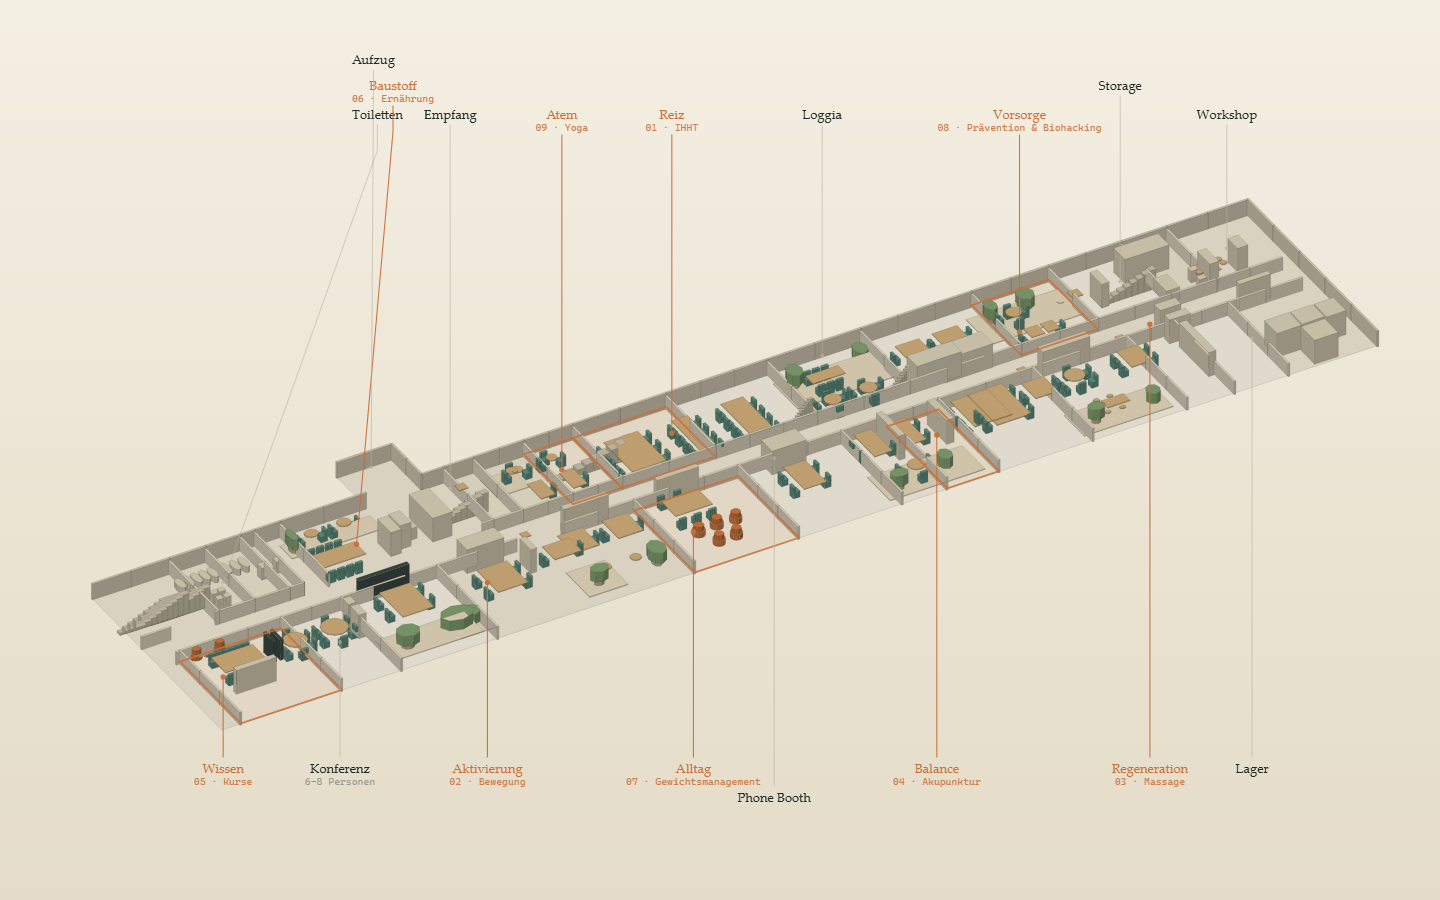
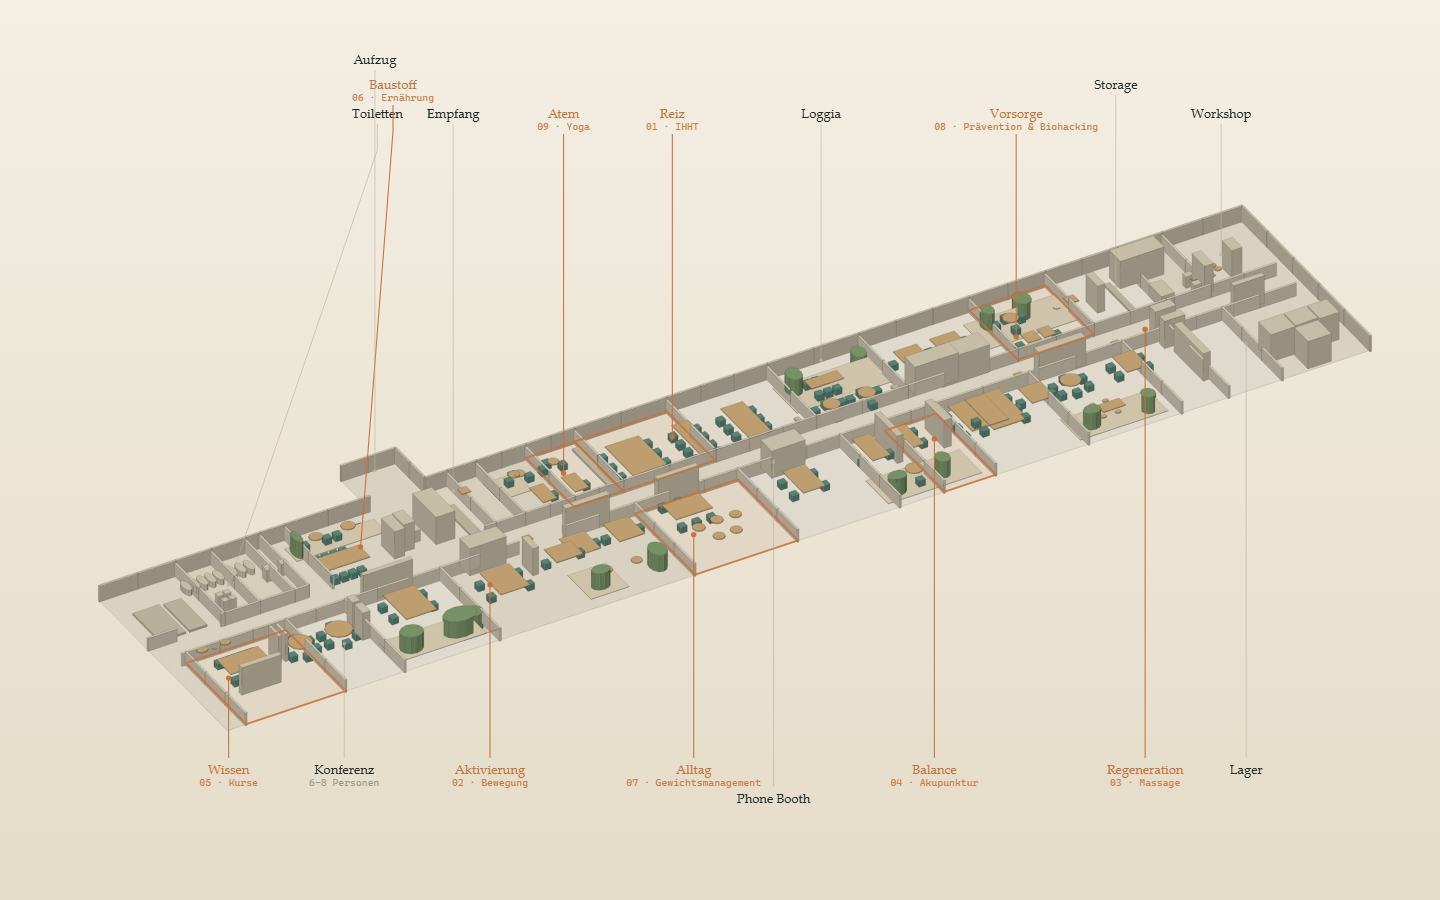
chore(autosave): drift-anchor 2026-07-26T04:46:13Z — 8 tracked + 1 new file(s)

diff --git a/src/axo/axo-kontrakt.js b/src/axo/axo-kontrakt.js
@@ -116,23 +116,31 @@ export const DARSTELLUNGSHOEHE = {
   boden: 0.1, // Bodenplatte, traegt den Farbton des Raums
   wandAussen: 1.16, // Schnitthoehe Aussenhuelle
   wandInnen: 0.94, // Schnitthoehe Trenn- und Flurwaende
-  kern: 2.45, // Aufzug/Treppenhaus ragen bewusst durch den Schnitt
-  tisch: 0.72,
-  platte: 0.05,
-  sitz: 0.44,
-  lehne: 0.8,
-  polster: 0.38,
-  polsterLehne: 0.7,
-  schrank: 1.72,
-  stellwand: 1.45, // schmale Schraenke (<= 30 cm tief) sind Stellwaende
-  kabine: 2.05,
-  topf: 0.42,
-  krone: 0.72,
-  becken: 0.85,
-  wc: 0.42,
-  kochfeld: 0.9,
-  loggia: 0.04 // flache Auflage auf dem Boden
+  kern: 3.0 // Aufzugsschacht, durchgehend bis Oberkante Wand
 }
+
+/* ── Ausstattungs-Hoehen kommen NICHT von hier ────────────────────────
+   Sie stehen in `src/three/ausstattung.ts` (OBERKANTE_CM / KOERPER_CM) und
+   werden von dort uebernommen — die 3D-Ansicht benutzt dieselbe Tabelle.
+   Diese Datei setzt keine zweite daneben.
+
+   Das ist mehr als Ordnungsliebe. Die Tabelle traegt eine ausformulierte
+   Doktrin, die beim ersten Entwurf dieser Axonometrie verletzt wurde:
+
+     · Der Stuhl ist NUR die Sitzflaeche (45 cm, DIN EN 1335). Eine Rueckenlehne
+       waere "eine Formaussage, die der Plan nicht traegt" — der erste Entwurf
+       hatte 144 Lehnen erfunden.
+     · Die Treppe ist NUR der Antritt (15 cm). Weder Geschosshoehe noch
+       Stufenzahl stehen in einem Grundriss; der erste Entwurf liess sie in
+       neun Stufen ansteigen und behauptete damit eine Steigung, die niemand
+       gemessen hat.
+     · Der Tisch ist die PLATTE auf Arbeitshoehe (6 cm auf 74 cm), kein
+       Vollkoerper — sonst stellt ein 290x350-Konferenztisch den halben Raum zu.
+
+   Frei bleibt allein die FARBE: sie ist eine Optik-Entscheidung dieser
+   Ansicht, kein Messwert. Die 3D-Ansicht faerbt blaustichig, damit ihre
+   eigenen Pruefungen Moebel von Waenden trennen koennen; die Axonometrie
+   braucht dafuer das warme Klima der Vorlage. */
 
 /* ══════════════════════════════════════════════════════════════════
    3 · PROJEKTION UND LICHT              [uebersicht.html:506,547-558]
@@ -237,44 +245,52 @@ export const BESCHRIFTUNG = {
    kennt nur EIN Grundkoerper-Primitiv (das extrudierte Vieleck), ein Kasten
    ist dessen Sonderfall mit vier Ecken. */
 
-/** @typedef {{material:string, y0:number, y1:number, rund?:boolean, teil?:string}} Bauform */
+/** @typedef {{material:string, y0:number, y1:number, rund?:boolean}} Bauform */
 
-/** Zuordnung Typ -> Bauform. Sonderfaelle loest `bauformFuer` ueber `text`. */
+/**
+ * Farbe und Umriss je Ausstattungs-Typ — die HOEHE steht bewusst nicht hier.
+ * `rund: true` heisst: als Vieleck statt als Kasten zeichnen (der Renderer
+ * kennt nur ein Primitiv, das ausgezogene Vieleck; ein Kasten ist dessen
+ * Sonderfall mit vier Ecken).
+ */
 export const AUSSTATTUNG_STIL = {
-  treppe: { material: 'stufe', y0: 0, y1: 1.4, teil: 'stufen' },
-  wc: { material: 'schrank', y0: 0, y1: DARSTELLUNGSHOEHE.wc, rund: true },
-  waschbecken: { material: 'schrank', y0: 0, y1: DARSTELLUNGSHOEHE.becken },
-  tisch: { material: 'holz', y0: DARSTELLUNGSHOEHE.tisch, y1: DARSTELLUNGSHOEHE.tisch + DARSTELLUNGSHOEHE.platte, teil: 'tisch' },
-  rundtisch: { material: 'holz', y0: DARSTELLUNGSHOEHE.tisch, y1: DARSTELLUNGSHOEHE.tisch + DARSTELLUNGSHOEHE.platte, rund: true, teil: 'tisch' },
-  stuhl: { material: 'sitz', y0: 0, y1: DARSTELLUNGSHOEHE.sitz, teil: 'stuhl' },
-  schrank: { material: 'schrank', y0: 0, y1: DARSTELLUNGSHOEHE.schrank },
-  pflanze: { material: 'gruen', y0: 0, y1: DARSTELLUNGSHOEHE.topf + DARSTELLUNGSHOEHE.krone, rund: true, teil: 'pflanze' },
-  kochfeld: { material: 'schrank', y0: 0, y1: DARSTELLUNGSHOEHE.kochfeld },
-  flaeche: { material: 'loggia', y0: 0, y1: DARSTELLUNGSHOEHE.loggia }
+  treppe: { material: 'stufe' },
+  wc: { material: 'schrank', rund: true },
+  waschbecken: { material: 'schrank' },
+  tisch: { material: 'holz' },
+  rundtisch: { material: 'holz', rund: true },
+  stuhl: { material: 'sitz' },
+  schrank: { material: 'schrank' },
+  pflanze: { material: 'gruen', rund: true },
+  kochfeld: { material: 'schrank' },
+  aufzug: { material: 'kern' },
+  flaeche: { material: 'loggia' }
 }
 
 /**
- * Bauform eines Elements — mit den Sonderfaellen, die erst der Blick in die
- * `text`-Felder zeigt: unter `rundtisch` stecken auch 'Lounge-Sessel' und
- * 'Sessel' (Sitzmoebel, kein Tisch), unter `schrank` auch 'Stellwand' und
- * 'Regal'. Eine Stellwand ist 20 cm tief und 1,45 m hoch, eine Schrankzeile
- * 35 cm tief und 1,72 m — als gleicher Kasten gezeichnet saehe der Raum
- * zugestellt aus, wo in Wirklichkeit nur eine Trennscheibe steht.
+ * Bauform eines Elements: Umriss und Farbe von hier, Hoehe aus der Tabelle des
+ * Projekts (`src/three/ausstattung.ts`), die der Aufrufer hereinreicht.
+ *
+ * Ein Typ ohne Hoehen-Eintrag wird NICHT gezeichnet — genauso haelt es die
+ * 3D-Ansicht ("lieber nichts zeichnen als einen erfundenen Koerper").
+ *
  * @param {{typ:string,text?:string|null,tiefe:number,breite:number}} el
- * @returns {Bauform}
+ * @param {{oberkante:Record<string,number>, koerper:Record<string,number>}} hoehen in cm
+ * @returns {Bauform|null}
  */
-export function bauformFuer(el) {
+export function bauformFuer(el, hoehen) {
   const stil = AUSSTATTUNG_STIL[el.typ]
-  if (!stil) return { material: 'schrank', y0: 0, y1: 0.8 }
-  const text = (el.text || '').toLowerCase()
-
-  if (el.typ === 'rundtisch' && /sessel|lounge/.test(text)) {
-    return { material: 'polster', y0: 0, y1: DARSTELLUNGSHOEHE.polsterLehne, rund: true, teil: 'sessel' }
+  const oben = hoehen?.oberkante?.[el.typ]
+  if (!stil || oben === undefined) return null
+  // Ohne eigenen Koerper-Eintrag steht das Stueck auf dem Boden; mit Eintrag
+  // schwebt nur die gemessene Platte auf ihrer Arbeitshoehe.
+  const dicke = hoehen.koerper?.[el.typ] ?? oben
+  return {
+    material: stil.material,
+    rund: !!stil.rund,
+    y0: (oben - dicke) * CM,
+    y1: oben * CM
   }
-  if (el.typ === 'schrank' && Math.min(el.breite, el.tiefe) <= 30) {
-    return { material: 'schirm', y0: 0, y1: DARSTELLUNGSHOEHE.stellwand }
-  }
-  return stil
 }
 
 /* ══════════════════════════════════════════════════════════════════

diff --git a/src/axo/axo-szene.js b/src/axo/axo-szene.js
@@ -87,81 +87,45 @@ function wandStuecke(a, b, dicke, y1, material, normale) {
   return stuecke
 }
 
-/** Koerper eines Ausstattungs-Elements. Masse kommen in cm herein. */
-function ausstattungsKoerper(el) {
-  const form = bauformFuer(el)
+/**
+ * Koerper eines Ausstattungs-Elements — EIN Koerper je gemessenem Element.
+ *
+ * Der erste Entwurf setzte Stuehle aus Sitz und Lehne zusammen, liess Treppen
+ * in neun Stufen ansteigen und machte aus manchen Rundtischen Sessel. Alles
+ * davon ist wieder verschwunden: der Plan misst Umriss und Standort, nicht
+ * Form. Was ein Element hoch ist, sagt die Tabelle des Projekts; wie es
+ * aussieht, sagt sein Umriss. Mehr steht nicht fest, also wird mehr nicht
+ * gezeigt.
+ *
+ * @param {object} el Element aus `floorplan.ausstattung`, Masse in cm
+ * @param {{oberkante:object, koerper:object}} hoehen
+ */
+function ausstattungsKoerper(el, hoehen) {
+  const form = bauformFuer(el, hoehen)
+  if (!form) return [] // unbekannter Typ: lieber nichts als etwas Erfundenes
   const cx = el.x * CM
   const cz = el.y * CM
   const b = el.breite * CM
   const t = el.tiefe * CM
   const dr = el.drehung || 0
-  const grund = () => (form.rund ? rund(cx, cz, b, t) : rechteck(cx, cz, b, t, dr))
-  const raus = []
-
-  if (form.teil === 'stuhl') {
-    // Sitzflaeche und Lehne. Die Beine der Vorlage (uebersicht.html:246) sind
-    // hier weggelassen: bei 144 Stuehlen waeren das 576 zusaetzliche Koerper,
-    // deren 7 cm im fertigen Bild niemand sieht.
-    raus.push({ punkte: rechteck(cx, cz, b, t, dr), y0: 0, y1: DARSTELLUNGSHOEHE.sitz, material: 'sitz' })
-    // Lehne an der Rueckkante: lokal um `versatz` in +z verschoben, mitgedreht.
-    const rueck = t * 0.35
-    const c = Math.cos(dr)
-    const s = Math.sin(dr)
-    const versatz = (t - rueck) / 2
-    raus.push({
-      punkte: rechteck(cx - versatz * s, cz + versatz * c, b, rueck, dr),
-      y0: DARSTELLUNGSHOEHE.sitz,
-      y1: DARSTELLUNGSHOEHE.lehne,
-      material: 'sitz'
-    })
-    return raus
-  }
-
-  if (form.teil === 'sessel') {
-    raus.push({ punkte: rund(cx, cz, b, t), y0: 0, y1: DARSTELLUNGSHOEHE.polster, material: 'polster' })
-    raus.push({ punkte: rund(cx, cz, b * 0.78, t * 0.78), y0: DARSTELLUNGSHOEHE.polster, y1: DARSTELLUNGSHOEHE.polsterLehne, material: 'polster' })
-    return raus
-  }
-
-  if (form.teil === 'pflanze') {
-    raus.push({ punkte: rund(cx, cz, b * 0.55, t * 0.55, 8), y0: 0, y1: DARSTELLUNGSHOEHE.topf, material: 'topf' })
-    raus.push({ punkte: rund(cx, cz, b, t, 8), y0: DARSTELLUNGSHOEHE.topf, y1: DARSTELLUNGSHOEHE.topf + DARSTELLUNGSHOEHE.krone, material: 'gruen' })
-    return raus
-  }
-
-  if (form.teil === 'stufen') {
-    // Treppenlauf: gestaffelte Tritte entlang der laengeren Achse, damit man
-    // die Steigung sieht statt eines Klotzes (uebersicht.html:301).
-    const n = 9
-    const laengs = b >= t
-    for (let i = 0; i < n; i++) {
-      const anteil = (i + 0.5) / n
-      const px = laengs ? cx - b / 2 + b * anteil : cx
-      const pz = laengs ? cz : cz - t / 2 + t * anteil
-      raus.push({
-        punkte: rechteck(px, pz, laengs ? b / n : b, laengs ? t : t / n, dr),
-        y0: 0,
-        y1: (form.y1 * (i + 1)) / n,
-        material: 'stufe'
-      })
+  return [
+    {
+      punkte: form.rund ? rund(cx, cz, b, t) : rechteck(cx, cz, b, t, dr),
+      y0: form.y0,
+      y1: form.y1,
+      material: form.material
     }
-    return raus
-  }
-
-  if (form.teil === 'tisch') {
-    raus.push({ punkte: grund(), y0: form.y0, y1: form.y1, material: form.material })
-    return raus
-  }
-
-  raus.push({ punkte: grund(), y0: form.y0, y1: form.y1, material: form.material })
-  return raus
+  ]
 }
 
 /**
  * Baut die vollstaendige Szene.
  *
  * @param {{floorplan:{corners:object,walls:object[],ausstattung?:object[]},labels?:object[]}} plan
- * @param {{wandDicke?:number, nurKernSaeulen?:boolean}} [opt] Wanddicke in cm
+ * @param {{wandDicke?:number, nurKernSaeulen?:boolean, hoehen?:object}} [opt]
+ *        `wandDicke` in cm; `hoehen` sind OBERKANTE_CM/KOERPER_CM aus
+ *        `src/three/ausstattung.ts` — ohne sie wird keine Ausstattung
+ *        gezeichnet, denn dann ist keine Hoehe belegt.
  */
 export function baueSzene(plan, opt = {}) {
   const fp = plan.floorplan || plan
@@ -285,8 +249,9 @@ export function baueSzene(plan, opt = {}) {
     )
   }
 
+  const hoehen = opt.hoehen || { oberkante: {}, koerper: {} }
   const moebel = []
-  for (const el of fp.ausstattung || []) moebel.push(...ausstattungsKoerper(el))
+  for (const el of fp.ausstattung || []) moebel.push(...ausstattungsKoerper(el, hoehen))
 
   /* ── Ausdehnung fuer den Massstab ──────────────────────────────── */
   let x0 = Infinity

diff --git a/app/components/blueprint3d/AxonometrieAnsicht.tsx b/app/components/blueprint3d/AxonometrieAnsicht.tsx
@@ -27,6 +27,7 @@ import { Configuration, configWallThickness } from '@blueprint3d/core/configurat
 import { baueSzene } from '@blueprint3d/axo/axo-szene.js'
 import { erzeugeAxonometrie } from '@blueprint3d/axo/axo-zeichnen.js'
 import { BLICKE, SAEULEN } from '@blueprint3d/axo/axo-kontrakt.js'
+import { OBERKANTE_CM, KOERPER_CM } from '@blueprint3d/three/ausstattung'
 
 type NamenModus = 'alle' | 'saeulen' | 'aus'
 
@@ -58,7 +59,9 @@ export function AxonometrieAnsicht({ blueprint3d, labels, aktiv }: Props) {
     const dicke = Configuration.getNumericValue(configWallThickness)
     const szene = baueSzene(
       { floorplan: gespeichert, labels },
-      { wandDicke: dicke, nurKernSaeulen: !vollausbau }
+      // Hoehen aus der Tabelle des Projekts — dieselbe, aus der die
+      // 3D-Ansicht ihre Koerper baut.
+      { wandDicke: dicke, nurKernSaeulen: !vollausbau, hoehen: { oberkante: OBERKANTE_CM, koerper: KOERPER_CM } }
     )
 
     const belegt: Record<number, string> = {}

diff --git a/src/three/ausstattung.ts b/src/three/ausstattung.ts
@@ -35,7 +35,7 @@ import type { AusstattungElement, AusstattungTyp } from '../model/floorplan'
  * (siehe Klassen-Kopf). Grundlage sind übliche Möbel- und Sanitärmaße; die
  * Quelle steht je Zeile.
  */
-const OBERKANTE_CM: Record<AusstattungTyp, number> = {
+export const OBERKANTE_CM: Record<AusstattungTyp, number> = {
   // Feste Arbeitshöhe nach DIN EN 527-1 (Büroarbeitstisch).
   tisch: 74,
   // Gleiche Arbeitshöhe — die Loggia-Tische sind Sitz-, keine Stehtische.
@@ -79,7 +79,7 @@ const OBERKANTE_CM: Record<AusstattungTyp, number> = {
  * jedes Bein wäre erfunden. Alle übrigen Typen stehen auf dem Boden und
  * brauchen keinen Eintrag — ihre Körperhöhe IST ihre Oberkante.
  */
-const KOERPER_CM: Partial<Record<AusstattungTyp, number>> = {
+export const KOERPER_CM: Partial<Record<AusstattungTyp, number>> = {
   tisch: 6,
   rundtisch: 6
 }
